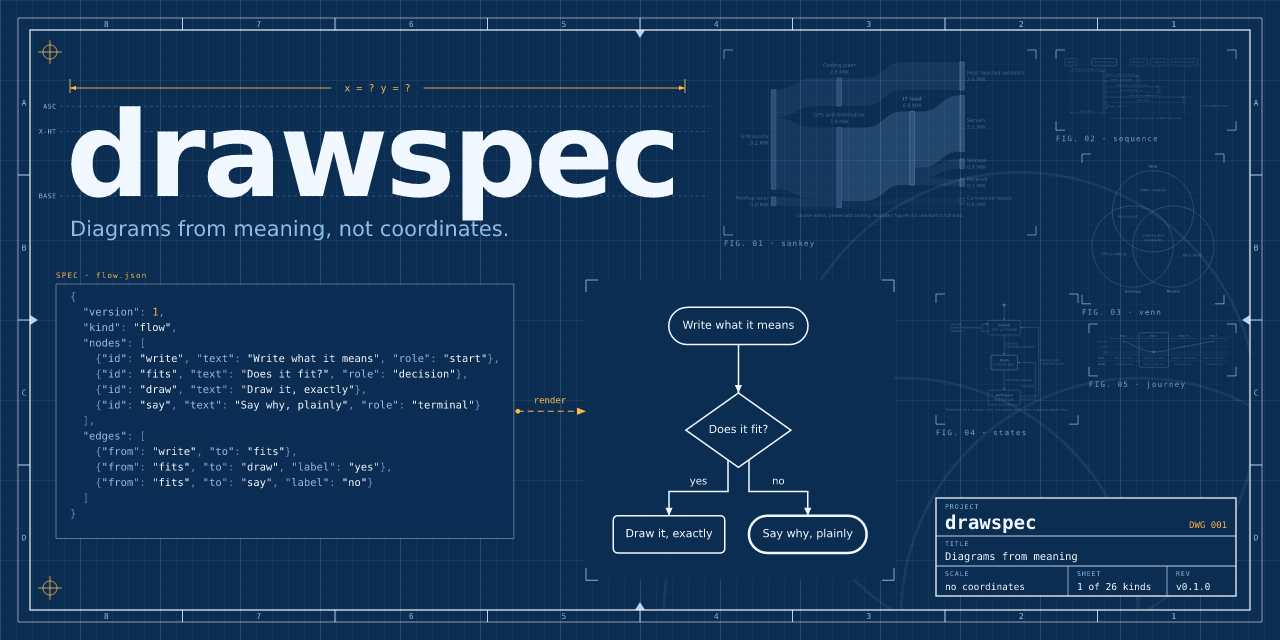
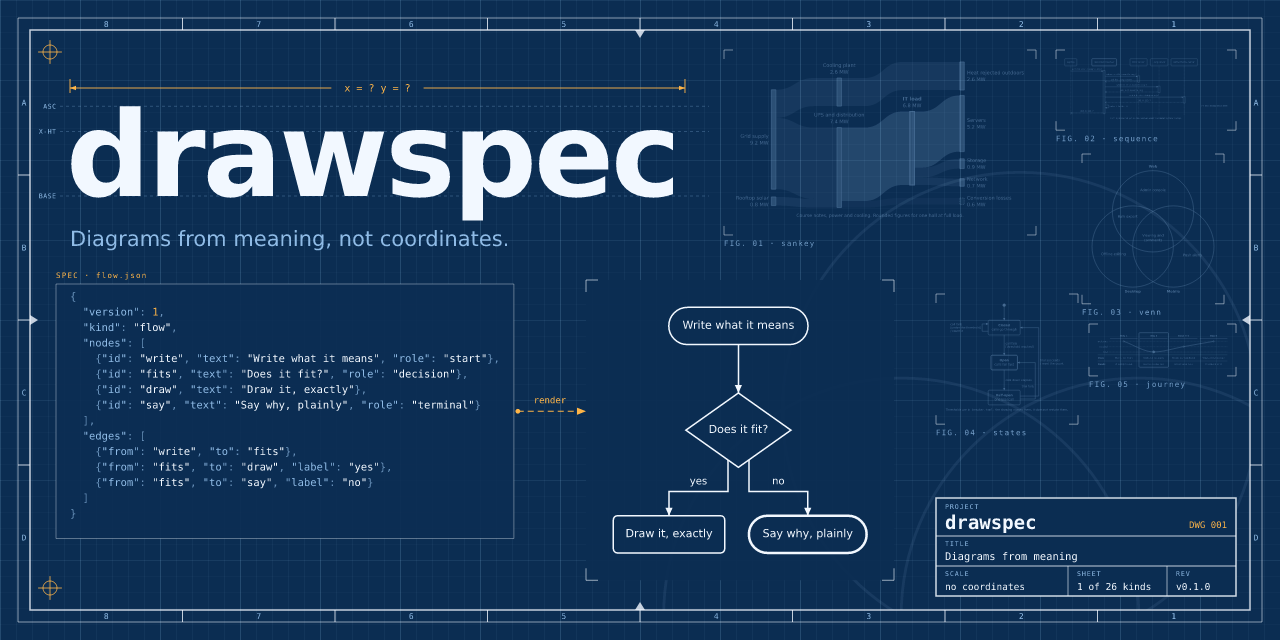
docs(hero): more room between the wordmark and the subtitle
Claude-Session: https://claude.ai/code/session_01Xxxhf1v5xiRCA9qMBySCKm

Changed region(s): [[0.0312, 0.3438, 0.4062, 0.4062]]

diff --git a/tools/hero.py b/tools/hero.py
@@ -471,7 +471,7 @@ def compose() -> str:
             text(mark_x - 14, y + 2.3, name, 6.5, SOFT, role="mono", anchor="end", spacing=0.5)
         )
     parts.append(text(mark_x - 4, mark_y, "drawspec", mark_size, INK, weight="bold", spacing=-3))
-    parts.append(text(mark_x, mark_y + 40, "Diagrams from meaning, not coordinates.", 21, SOFT))
+    parts.append(text(mark_x, mark_y + 50, "Diagrams from meaning, not coordinates.", 21, SOFT))
 
     # The JSON on the left, and the drawing it makes in front of the plates.
     lines = snippet_lines(SPEC)
